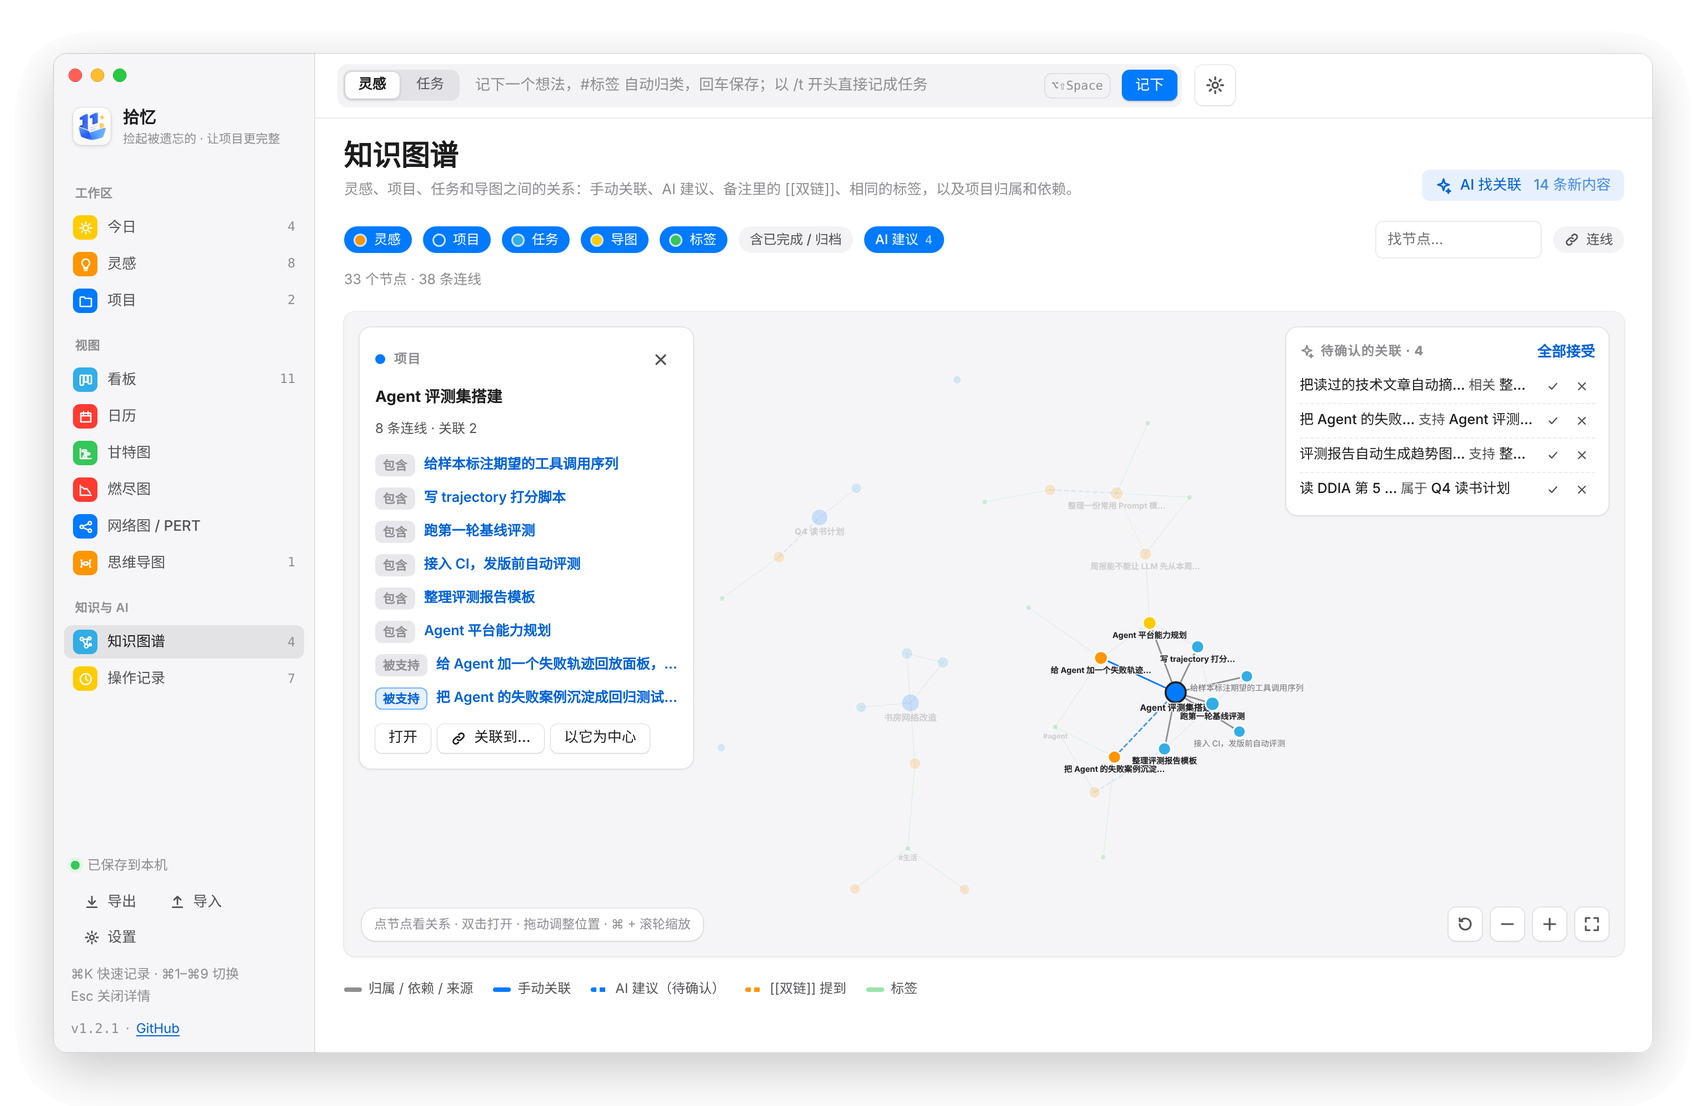
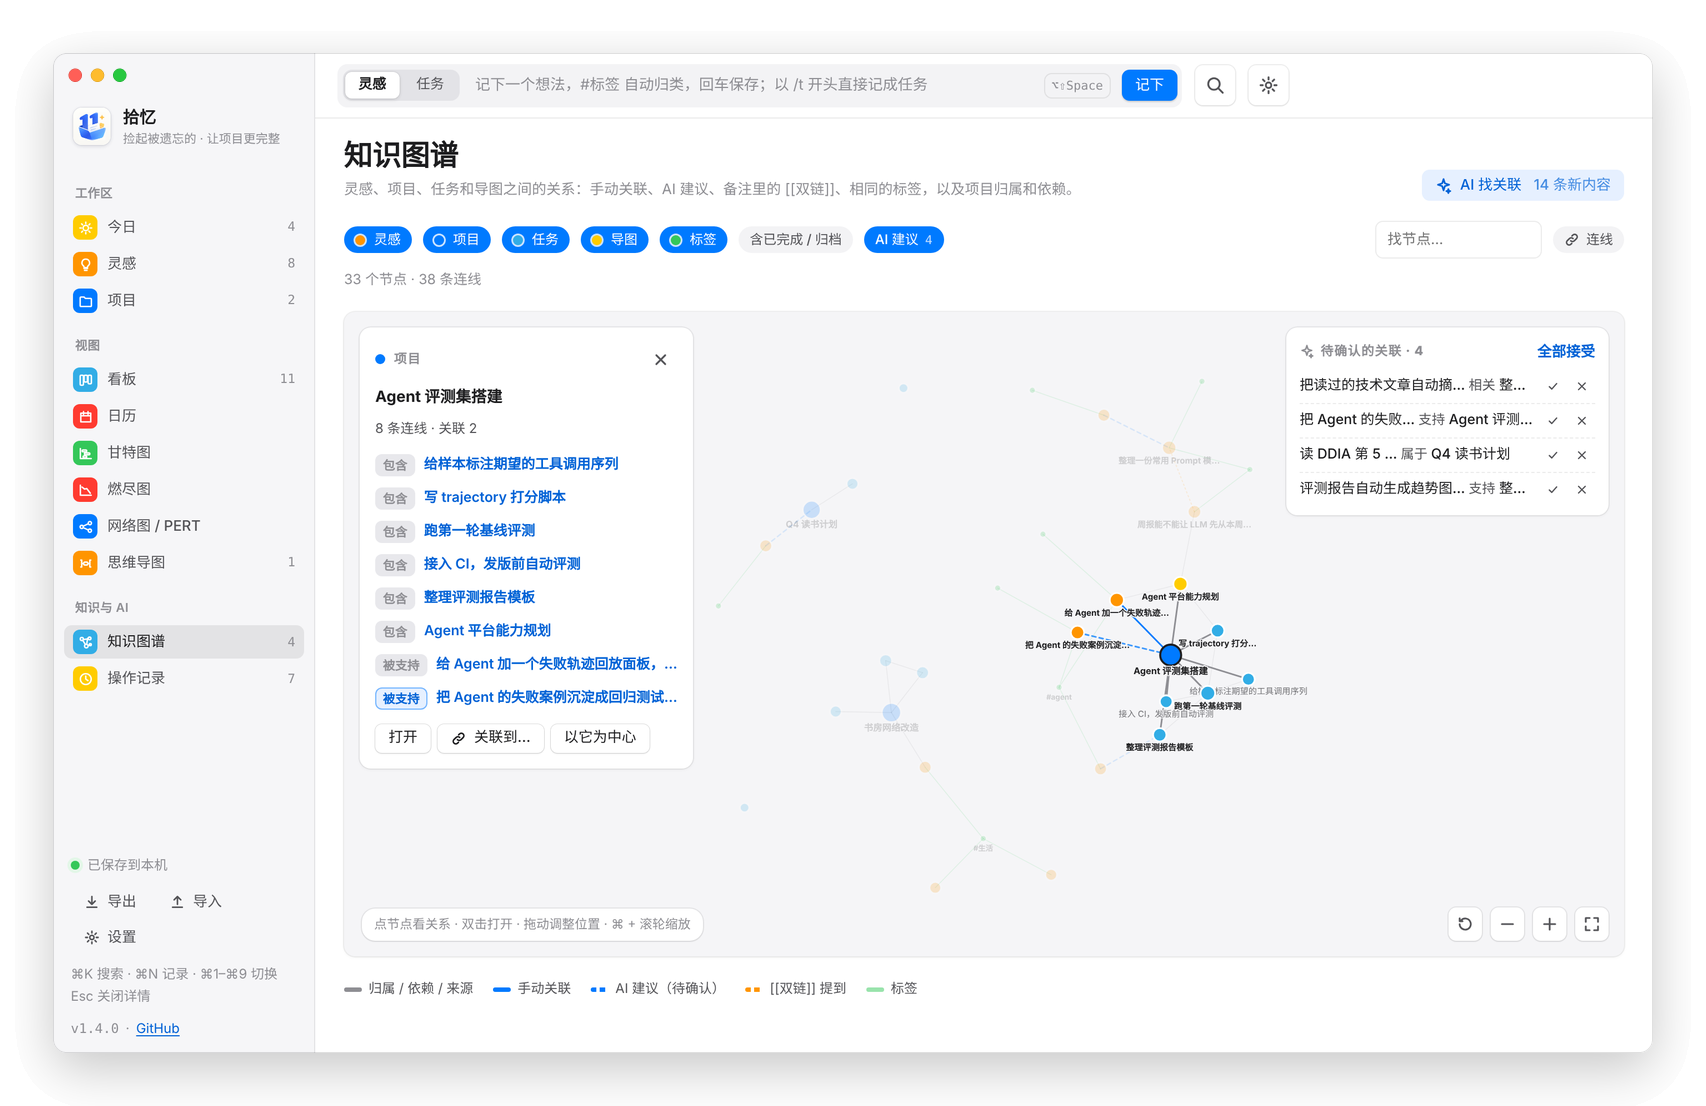
版本 1.4.0：更新说明、README（⌘K、提醒与后台、反馈问题）、重新生成截图
Claude-Session: https://claude.ai/code/session_017SpTzLsBopcBvD6Ewedaaq

diff --git a/src/styles.css b/src/styles.css
@@ -813,7 +813,9 @@ button.tag.is-on{background:var(--lav);color:#fff}
 @media (max-width:900px){.mp{grid-template-columns:1fr}.mp-models{grid-template-columns:1fr}}
 
 /* ---------- ⌘K search & commands ---------- */
-.modal.pal{place-items:start center;padding-top:min(14vh,120px);z-index:70}
+.modal.pal{place-items:start center;padding-top:min(14vh,120px);z-index:70;backdrop-filter:none;-webkit-backdrop-filter:none;background:rgba(30,26,40,.22)}
+:root[data-theme="dark"] .modal.pal{background:rgba(0,0,0,.42)}
+@media (prefers-color-scheme:dark){:root:not([data-theme="light"]) .modal.pal{background:rgba(0,0,0,.42)}}
 .pal-card{width:min(640px,100%);max-height:min(70vh,560px);overflow:hidden}
 .pal-in{display:flex;align-items:center;gap:10px;padding:14px 16px 12px 18px;border-bottom:1px solid var(--line);color:var(--ink-3)}
 .pal-in input{flex:1;min-width:0;border:0;outline:none;background:transparent;font-size:16px;color:var(--ink);padding:4px 0;user-select:text;-webkit-user-select:text}

diff --git a/scripts/e2e/serve.py b/scripts/e2e/serve.py
@@ -88,16 +88,16 @@ def call(cmd, a):
         return {"ok": "你好"}
     if cmd == "app_info":
         import os
-        return {"ok": {"version": "1.3.0", "repo": "https://github.com/LJS1124/shiyi-desktop", "data_path": args.db, "backups": str(pathlib.Path(args.db).parent / "backups"), "os": "macos", "auto_update": True}}
+        return {"ok": {"version": "1.4.0", "repo": "https://github.com/LJS1124/shiyi-desktop", "data_path": args.db, "backups": str(pathlib.Path(args.db).parent / "backups"), "os": "macos", "auto_update": True}}
     if cmd == "check_update":
         # pretend a newer release exists unless SHIYI_FAKE_UPDATE=none
         import os
         if os.environ.get("SHIYI_FAKE_UPDATE") == "none":
-            return {"ok": {"available": False, "current": "1.3.0", "version": "1.3.0", "notes": "", "page": "https://github.com/LJS1124/shiyi-desktop/releases/tag/v1.1.1"}}
+            return {"ok": {"available": False, "current": "1.4.0", "version": "1.4.0", "notes": "", "page": "https://github.com/LJS1124/shiyi-desktop/releases/tag/v1.1.1"}}
         notes = (ROOT / "docs/releases/v1.1.1.md").read_text(encoding="utf-8")
-        return {"ok": {"available": True, "current": "1.3.0", "version": "1.3.0", "tag": "v1.3.0", "notes": notes, "published_at": "2026-10-20T08:00:00Z",
-                       "page": "https://github.com/LJS1124/shiyi-desktop/releases/tag/v1.3.0", "asset_name": "Shiyi_1.3.0_universal.dmg",
-                       "asset_url": "https://github.com/LJS1124/shiyi-desktop/releases/download/v1.3.0/Shiyi_1.3.0_universal.dmg"}}
+        return {"ok": {"available": True, "current": "1.4.0", "version": "1.4.0", "tag": "v1.4.0", "notes": notes, "published_at": "2026-10-20T08:00:00Z",
+                       "page": "https://github.com/LJS1124/shiyi-desktop/releases/tag/v1.4.0", "asset_name": "Shiyi_1.4.0_universal.dmg",
+                       "asset_url": "https://github.com/LJS1124/shiyi-desktop/releases/download/v1.4.0/Shiyi_1.4.0_universal.dmg"}}
     if cmd == "update_install":
         return {"err": "检查更新失败：模拟环境不能安装"}
     if cmd == "open_project_url":

diff --git a/scripts/screenshots.py b/scripts/screenshots.py
@@ -108,6 +108,15 @@ try:
         pg.evaluate("SY.S.ui.calMonth = SY.TODAY().slice(0, 7); SY.scheduleRender()")
         shot("calendar")
 
+        # ⌘K: one box for everything
+        view("today")
+        pg.wait_for_timeout(400)
+        pg.keyboard.press("Meta+k")
+        pg.wait_for_selector("#pal-q")
+        pg.keyboard.type("评测")
+        shot("palette", 400)
+        pg.keyboard.press("Escape")
+
         # capture an idea: related items are suggested without AI
         view("ideas", ideaFilter="inbox")
         pg.fill("#cap-text", "失败对话可以按工具调用逐步回放，方便定位评测里出错的步骤 #agent")

diff --git a/README.md b/README.md
@@ -11,7 +11,7 @@
   <img src="https://img.shields.io/badge/macOS-11%2B-111?logo=apple" alt="macOS 11+">
   <img src="https://img.shields.io/badge/Windows-10%2B-0078D4?logo=windows" alt="Windows 10+">
   <img src="https://img.shields.io/badge/Tauri-2-24C8DB?logo=tauri&logoColor=white" alt="Tauri 2">
-  <img src="https://img.shields.io/badge/version-1.3.0-0A84FF" alt="1.3.0">
+  <img src="https://img.shields.io/badge/version-1.4.0-0A84FF" alt="1.4.0">
 </p>
 
 拾忆是一个 macOS 和 Windows 桌面应用，管理随手冒出来的想法、工作和生活里的项目，并把它们连成一张知识图谱。
@@ -23,6 +23,8 @@
 ## 亮点
 
 - **随手记，不打断手头的事**：在任何应用里按 <kbd>⌥</kbd><kbd>⇧</kbd><kbd>Space</kbd>（Windows 上是 <kbd>Ctrl</kbd><kbd>Alt</kbd><kbd>Space</kbd>）唤出记录框；`#标签` 自动归类，`[[标题]]` 双链到别的条目。记下的时候会提示「可能和哪条相关」，这一步只比较文字，不调用 AI。
+- **<kbd>⌘</kbd><kbd>K</kbd> 找到一切**：一个框里搜灵感、任务、项目、导图节点和标签，也能直接跳到某个视图、新建项目、切换深浅色；搜不到就回车记下来。
+- **到点提醒，不漏事**：每天早上一条系统通知，告诉你今天要做几件、有没有逾期。Windows 上关闭窗口会缩到托盘继续运行，也可以开机自动启动。
 - **一个项目，六种视图**：看板、日历、甘特图、燃尽图、网络图（PERT）、思维导图，用的是同一份任务数据。日历里多天的任务横跨显示，拖动改日期，双击某一天直接加任务，没排期的任务从侧栏拖上去就排好了。依赖、三点估算和关键路径在各个视图之间是连通的。
 - **知识图谱**：手动关联、AI 建议、`[[双链]]`、相同标签、项目归属和依赖，都画在一张图上。可以只看某一条周围的局部关系，也可以拖线建立关联。
 - **AI 原生，但由你掌控**：外部 AI 助手通过命令行读写；内置的 AI 功能只在你点按钮时运行，结果先预览、改完再写入。AI 建的关联必须等你确认才算数，每一批修改都可以撤销。
@@ -30,6 +32,12 @@
 - **macOS 和 Windows，一键更新**：有新版本时侧栏会提示，点「立即更新」就自动下载、核对签名、安装并重启；更新前先完整备份数据库。
 
 ## 看看它
+
+### ⌘K 搜索与命令
+
+在任何界面按 <kbd>⌘</kbd><kbd>K</kbd>（Windows 上是 <kbd>Ctrl</kbd><kbd>K</kbd>）。多个关键词要同时命中；标题命中的排在前面，只有备注命中时显示命中的那一段。导图里的每个节点都能搜到，回车后在导图里选中并居中。不输入时列出最近打开的内容和常用命令，搜不到时回车直接记成灵感。
+
+![⌘K 搜索](docs/screenshots/palette.png)
 
 ### 知识图谱
 
@@ -172,11 +180,22 @@ Windows 上 <kbd>⌘</kbd> 换成 <kbd>Ctrl</kbd>，全局唤出改为 <kbd>Ctrl
 
 | 按键 | 作用 |
 | --- | --- |
-| <kbd>⌥</kbd><kbd>⇧</kbd><kbd>Space</kbd> | 在任何应用里唤出拾忆，并把光标放进记录框。macOS 上关闭窗口后应用仍在后台，<kbd>⌘</kbd><kbd>Q</kbd> 才是真正退出；Windows 上关闭窗口就是退出，要用这个快捷键得保持应用运行 |
-| <kbd>⌘</kbd><kbd>K</kbd> | 聚焦记录框；以 `/t ` 开头直接记成任务 |
+| <kbd>⌥</kbd><kbd>⇧</kbd><kbd>Space</kbd> | 在任何应用里唤出拾忆，并把光标放进记录框。关闭窗口后拾忆仍在后台运行：macOS 上 <kbd>⌘</kbd><kbd>Q</kbd> 才是真正退出，Windows 上它在托盘里，右键菜单可以退出 |
+| <kbd>⌘</kbd><kbd>K</kbd> | 搜索和命令 |
+| <kbd>⌘</kbd><kbd>N</kbd> 或 <kbd>/</kbd> | 聚焦记录框；以 `/t ` 开头直接记成任务 |
 | <kbd>⌘</kbd><kbd>1</kbd>–<kbd>9</kbd> | 切换视图 |
 | `[[` | 在记录框和备注里弹出条目列表，选中即插入双链 |
 | <kbd>Esc</kbd> | 关闭详情 |
+
+## 提醒与后台运行
+
+- **今日摘要**：每天到点（默认 9:00）发一条系统通知，列出今天要做的和已经逾期的任务；都没有时不打扰。错过了时间（比如 10 点才开电脑）会在打开时补发，晚上 9 点以后不再补发。在「设置 → 提醒与后台」里可以关闭、改时间，或点「发一条试试」。没收到通知的话，到系统的通知设置里允许 Shiyi 发通知。
+- **后台运行**：提醒只在拾忆运行时才会发。macOS 上关闭窗口后应用仍在后台；Windows 上关闭窗口会缩到任务栏右下角的托盘里（可以在设置里改成关闭即退出）。重复打开拾忆会回到已经在运行的窗口。
+- **开机自动启动**：macOS 和 Windows 都支持，默认关闭。开启后开机时在后台启动，不弹出窗口。
+
+## 反馈问题
+
+「设置 → 关于 → 反馈问题」（或 <kbd>⌘</kbd><kbd>K</kbd> 里搜「反馈」）会在浏览器里打开 [GitHub Issues](https://github.com/LJS1124/shiyi-desktop/issues) 的新建页面，把你写的描述和诊断信息填好，登录 GitHub 后提交即可。诊断信息包括版本、系统、数据条数、最近的报错和后台日志，不含任何笔记内容和 API Key；提交前可以先点「诊断信息」看一遍。
 
 ## 数据
 
@@ -185,6 +204,7 @@ Windows 上 <kbd>⌘</kbd> 换成 <kbd>Ctrl</kbd>，全局唤出改为 <kbd>Ctrl
 - **导出 / 导入**：「设置 → 数据」可以导出、导入 JSON。网页预览导出的备份和旧版备份都能导入，导入本身也能撤销。
 - **从旧版升级**：升级时会自动把旧的 `data.json` 导入数据库，原文件改名为 `data.json.imported`。
 - **API Key**：存在同目录的 `settings.json` 里，不会离开本机（macOS 上文件权限是 600）。
+- **日志**：同目录的 `logs/shiyi.log`，只记启动、备份、AI 和更新请求失败的原因，不记笔记内容、提示词和 Key，「诊断信息」里显示最后 20 行。
 
 ## 架构
 
@@ -242,8 +262,10 @@ core/                 数据层（Rust）：SQLite、操作与撤销、知识图
   src/cli.rs          命令行
   src/install.rs      命令行启动脚本（sh / cmd）、home 目录、PATH 提示
   src/ai.rs           读取各家模型的回复（思考块、流式、截断）与输出额度调整
-  src/update.rs       检查 GitHub 上的新版本
-  tests/              数据层、命令行、相关推荐、修改摘要、AI 回复、更新与升级备份的测试
+  src/update.rs       检查 GitHub 上的新版本、反馈问题的链接
+  src/remind.rs       每日摘要：什么时候发、通知里写什么
+  src/logfile.rs      诊断用的滚动日志
+  tests/              数据层、命令行、相关推荐、修改摘要、AI 回复、更新与升级备份、提醒与日志的测试
 skills/shiyi/         给 AI 的技能说明（SKILL.md，也编进了应用）
 src/                  界面（无构建步骤）
   js/core.js          状态、渲染循环、详情面板、设置
@@ -252,9 +274,11 @@ src/                  界面（无构建步骤）
   js/related.js       可能相关（与 core/src/related.rs 一致）
   js/agent.js         操作记录、AI 接入设置
   js/update.js        版本号与 GitHub 链接、新版本提示、一键更新
+  js/palette.js       ⌘K 搜索与命令
+  js/system.js        提醒与后台设置、诊断信息、反馈问题
   js/views-main.js    今日 / 灵感 / 项目
   js/kanban.js  calendar.js  gantt.js  burndown.js  pert.js  mindmap.js  ai.js
-src-tauri/            Rust 外壳：接入 core、监听 AI 的修改、安装命令行和技能、AI 代理、导入导出、全局快捷键、自动更新
+src-tauri/            Rust 外壳：接入 core、监听 AI 的修改、安装命令行和技能、AI 代理、导入导出、全局快捷键、自动更新、通知、托盘、开机自启
   tauri.conf.json     macOS 的窗口和打包配置
   tauri.windows.conf.json  Windows 的覆盖配置（系统标题栏、NSIS 安装包）
 scripts/              预览打包、端到端测试、截图

diff --git a/docs/releases/v1.4.0.md b/docs/releases/v1.4.0.md
@@ -1,0 +1,34 @@
+拾忆 1.4.0：⌘K 搜索与命令、每天的提醒、Windows 托盘，以及在应用里直接反馈问题。
+
+已装 1.2.x 或 1.3.x：设置 → 关于 → 检查更新 → 立即更新。
+
+## 新功能
+
+- **⌘K 搜索与命令**（Windows 上是 Ctrl+K），在任何界面都能用：
+  - 一个框里搜灵感、任务、项目、思维导图（包括每个节点）和标签，回车直接打开；导图节点会在导图里选中并居中。
+  - 标题命中的排在前面，未完成的排在已完成前面；只有备注命中时，会显示命中的那一段。
+  - 不输入时显示最近打开过的内容和常用命令。
+  - 也能直接执行命令：打开某个视图、新建项目或导图、切换深浅色、打开设置、检查更新、AI 排今日、导出备份等。
+  - 搜不到时，回车就把这句话记成灵感（也可以选「记成任务」）。
+  - 顶栏右上角多了一个搜索按钮。
+- **每天的今日摘要**：每天到点（默认 9:00）发一条系统通知，比如「今天要做 4 件，逾期 1 件：交物业费、写打分脚本……」。
+  - 今天没有到期或逾期的任务时不打扰。
+  - 错过了时间（比如 10 点才开电脑）会在打开时补发；晚上 9 点以后不再补发。
+  - 在 设置 → 提醒与后台 里可以关闭、改时间，或点「发一条试试」。
+- **Windows：关闭窗口缩到托盘**：关掉窗口后拾忆留在任务栏右下角，提醒和全局快捷键照常工作。
+  - 点托盘图标打开；右键菜单有「快速记录」和「退出拾忆」。
+  - 不想要的话，在 设置 → 提醒与后台 里取消勾选，关闭窗口就是退出。
+  - 再次从开始菜单打开拾忆时，会回到已经在运行的那个窗口，不会开第二个。
+- **开机自动启动**（macOS 和 Windows）：在 设置 → 提醒与后台 里打开，开机后在后台等着提醒你，不弹出窗口。默认关闭。
+- **诊断信息与反馈问题**：设置 → 关于 里新增两个按钮（⌘K 里也能找到）。
+  - 「诊断信息」列出版本、系统、数据条数、最近的报错和后台日志，不含任何笔记内容和 API Key，可以一键复制。
+  - 「反馈问题」会在浏览器里打开拾忆在 GitHub 上的新建 Issue 页面，把你写的描述和诊断信息填好，登录 GitHub 后点提交即可。
+
+## 改动
+
+- **快捷键调整**：⌘K 改为搜索与命令；聚焦顶部记录框改为 ⌘N（Windows 上是 Ctrl+N），`/` 照旧可用。
+- 后台日志记在数据文件夹的 `logs/shiyi.log`，只记启动、备份、AI 和更新请求失败的原因，不记笔记内容、提示词和 Key。
+
+## 升级说明
+
+数据不受影响。更新后第一次打开会照常先完整备份一份数据库。Windows 上更新后第一次关闭窗口时，会弹一条通知说明拾忆去了托盘。
